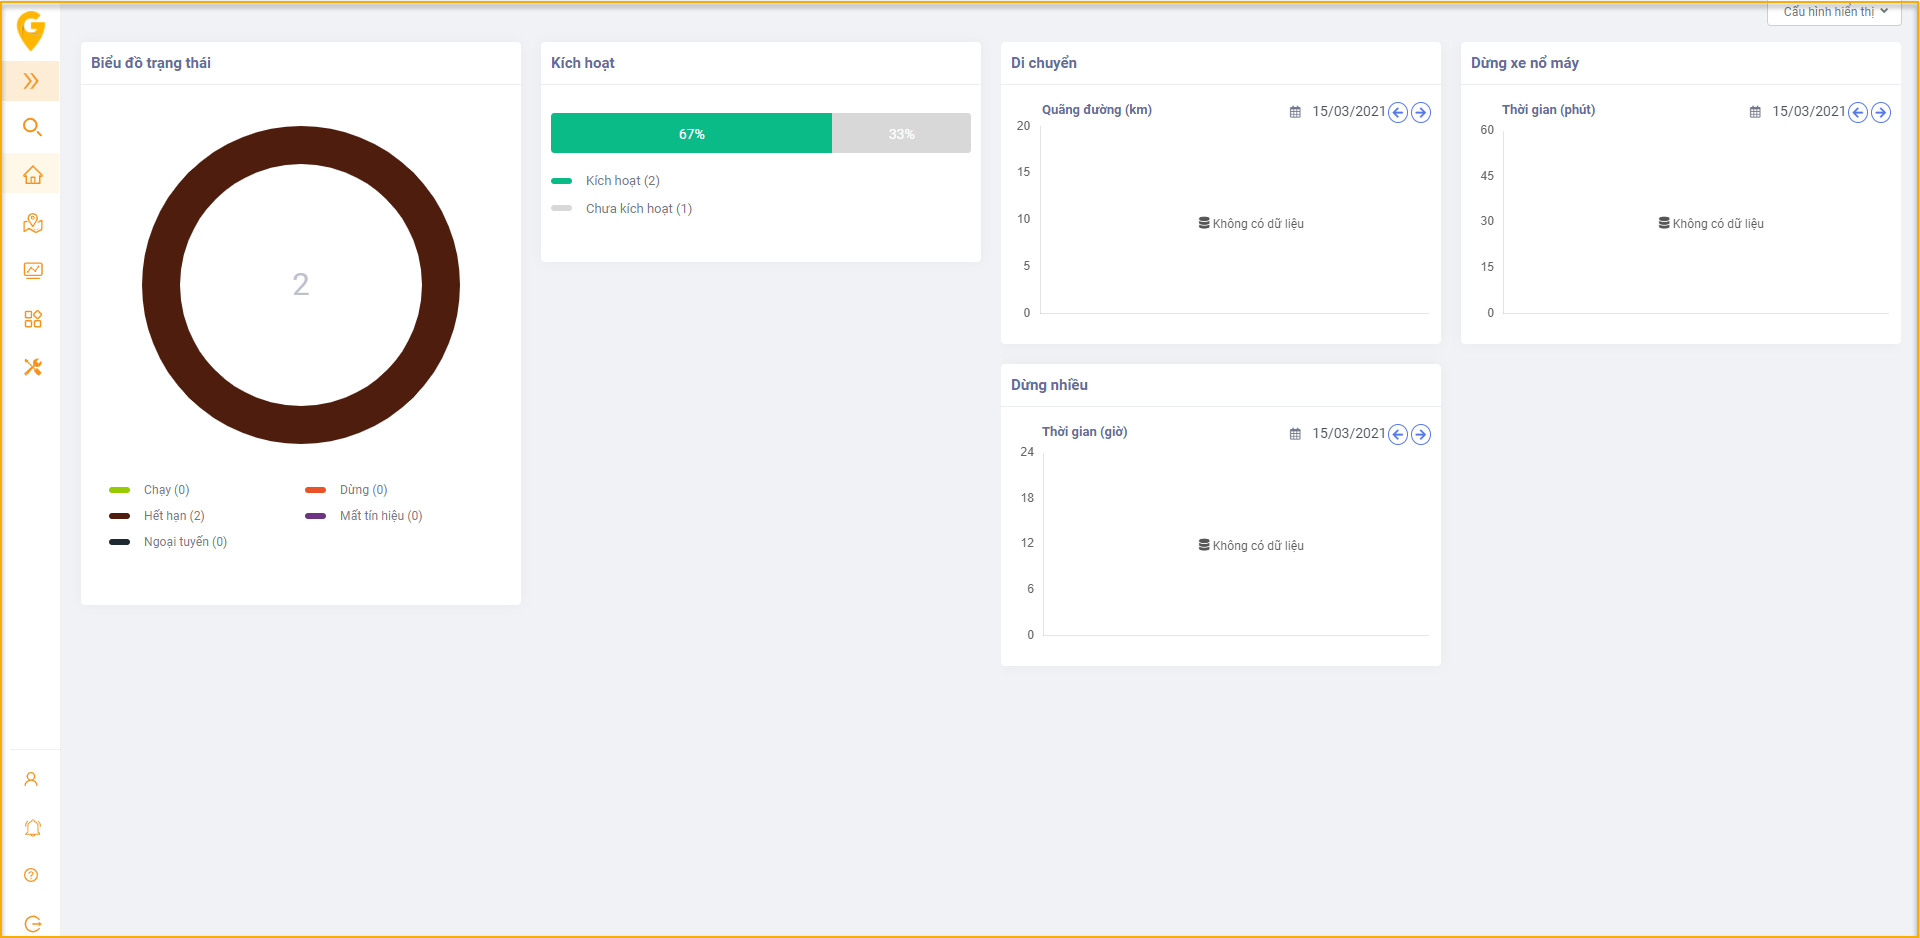
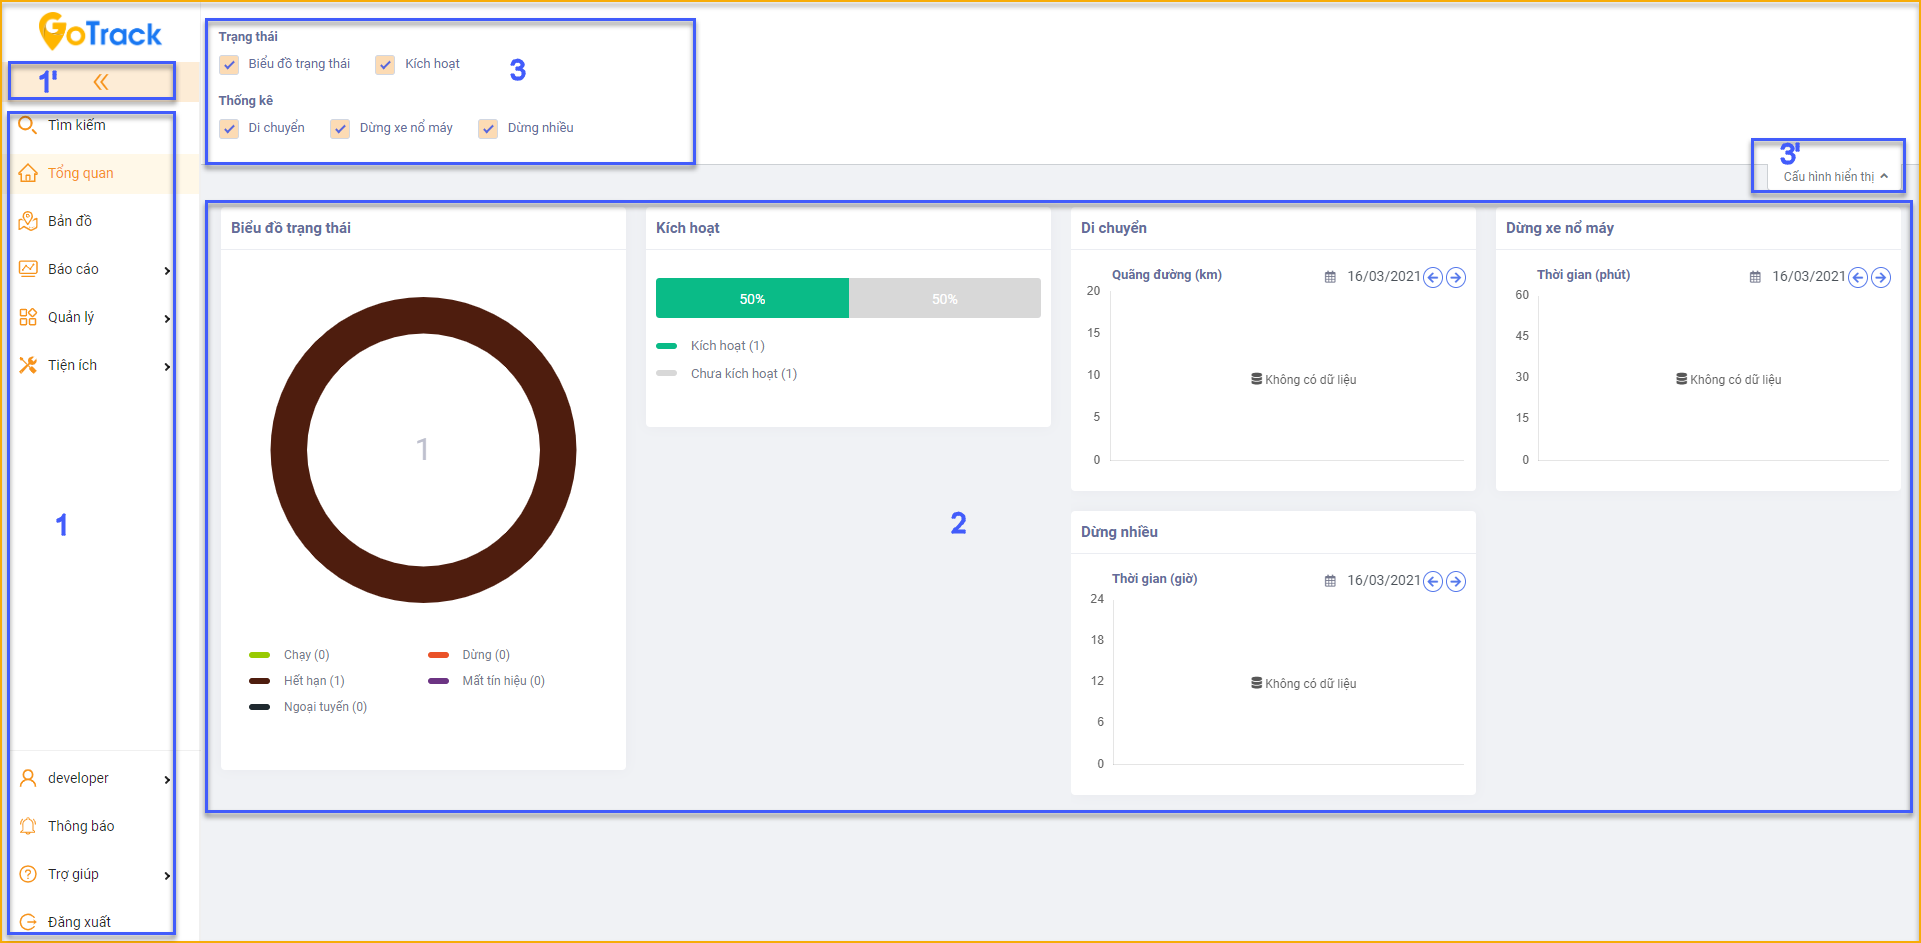
fix 1233

diff --git a/modules/get-started/README_vi.md b/modules/get-started/README_vi.md
@@ -21,4 +21,8 @@ Giao diện phần mềm đa dạng: Giao diện trên nền tảng Máy Tính, 
 Dưới đây là giao diện trang chủ (Tổng quan) của phần mềm.
 
 <span style="display:block;text-align:center">![active device ](/docs/assets/images/web-interface/Home-page.png)
-
+- **Vùng 1**: Menu dọc.
+    - **Vùng 1'** : Click 1 lần vào đó để mở rộng menu. (Click 1 lần nữa để thu gọn menu). 
+- **Vùng 2** : Vùng hiển thị dữ liệu tổng quát.
+- **Vùng 3** : Bật / Tắt thông tin cần hiển thị ở vùng dữ liệu.
+    - **Vùng 3'** : Click 1 lần vào đó để mở rộng cấu hình hiển thị. (Click 1 lần nữa để thu gọn cấu hình hiển thị). 
